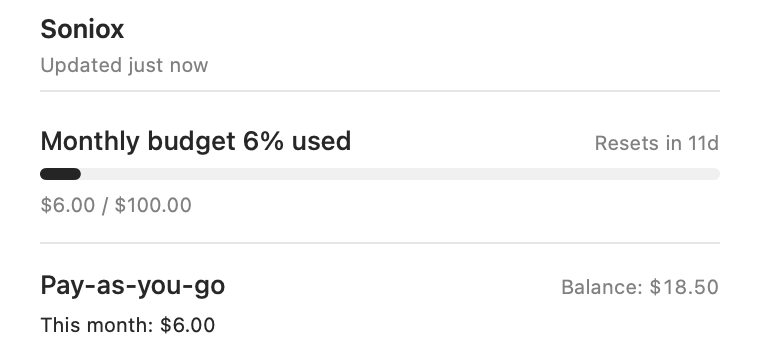
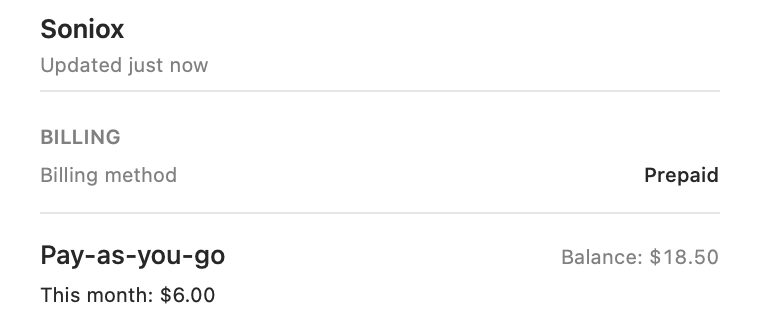
Default Soniox menus to balance and spend

diff --git a/Tests/CodexBarTests/SonioxProviderTests.swift b/Tests/CodexBarTests/SonioxProviderTests.swift
@@ -27,15 +27,37 @@ struct SonioxProviderTests {
     }
 
     @Test
-    func `menu card separates the monthly budget from prepaid balance`() throws {
+    func `monthly budget visibility is opt in and survives config round trips`() throws {
+        let fixture = try ProviderSettingsDescriptorTests().makeSettingsFixture(suite: "SonioxVisibilityTests")
+        let settings = fixture.settings
+        #expect(!settings.isUsageItemVisible(.metric("primary"), for: .soniox))
+        #expect(!settings.hasCustomUsageItemVisibility(for: .soniox))
+        settings.setUsageItemVisible(true, itemID: .metric("primary"), for: .soniox)
+        #expect(settings.isUsageItemVisible(.metric("primary"), for: .soniox))
+        #expect(settings.hasCustomUsageItemVisibility(for: .soniox))
+        let saved = try CodexBarConfig.decode(from: settings.configSnapshot.encodedData())
+        #expect(saved.providerConfig(for: .soniox)?.hiddenUsageItemIDs == [])
+        settings.restoreDefaultUsageItemVisibility(for: .soniox)
+        #expect(!settings.isUsageItemVisible(.metric("primary"), for: .soniox))
+        #expect(!settings.hasCustomUsageItemVisibility(for: .soniox))
+        settings.applyExternalConfig(saved, reason: "synthetic-reload", affectsBackgroundWork: false)
+        #expect(settings.isUsageItemVisible(.metric("primary"), for: .soniox))
+        #expect(settings.hiddenUsageItemIDs(for: .deepgram).isEmpty)
+    }
+
+    @Test
+    func `menu card defaults to prepaid balance and spend with optional monthly budget`() throws {
+        let fixture = try ProviderSettingsDescriptorTests().makeSettingsFixture(suite: "SonioxMenuCardTests")
         let now = Date(timeIntervalSince1970: 1_792_540_800)
         let resetsAt = try #require(ISO8601DateFormatter().date(from: "2026-11-01T00:00:00Z"))
-        let snapshot = UsageSnapshot(
+        let snapshot = try UsageSnapshot(
             primary: RateWindow(
                 usedPercent: 6, windowMinutes: nil, resetsAt: resetsAt, resetDescription: "$6.00 / $100.00"),
             secondary: nil,
             providerCost: ProviderCostSnapshot(
                 used: 6, limit: 100, currencyCode: "USD", period: "This month", balance: 18.5, updatedAt: now),
+            details: [ProviderDetailSection(
+                title: "Billing", rows: [.init(label: "Billing method", value: "Prepaid")])],
             updatedAt: now)
         let model = try UsageMenuCardView.Model.make(.init(
             provider: .soniox,
@@ -62,11 +84,18 @@ struct SonioxProviderTests {
         #expect(model.providerCost?.spendLine == "This month: $6.00")
         #expect(model.providerCost?.balanceLine == "Balance: $18.50")
 
+        let visibleModel = model.applyingUsageItemVisibility(
+            hiddenItemIDs: fixture.settings.hiddenUsageItemIDs(for: .soniox))
+        #expect(visibleModel.metrics.isEmpty)
+        #expect(visibleModel.providerCost?.spendLine == "This month: $6.00")
+        #expect(visibleModel.providerCost?.balanceLine == "Balance: $18.50")
+        #expect(model.usageItemDescriptors.contains { $0.id == .metric("primary") && $0.title == "Monthly budget" })
+
         if let path = ProcessInfo.processInfo.environment["CODEXBAR_SONIOX_SCREENSHOT_DIR"] {
             let directory = URL(fileURLWithPath: path, isDirectory: true)
             try FileManager.default.createDirectory(at: directory, withIntermediateDirectories: true)
             for dark in [false, true] {
-                let view = UsageMenuCardView(model: model, width: 380)
+                let view = UsageMenuCardView(model: visibleModel, width: 380)
                     .environment(\.locale, Locale(identifier: "en_US_POSIX"))
                     .environment(\.colorScheme, dark ? .dark : .light)
                     .environment(\.displayScale, 2)

diff --git a/Sources/CodexBar/ProviderUsageItemVisibility.swift b/Sources/CodexBar/ProviderUsageItemVisibility.swift
@@ -237,7 +237,7 @@ extension SettingsStore {
             return Set(storedIDs.map(ProviderUsageItemID.init(rawValue:)))
         }
 
-        var hiddenIDs = Set<ProviderUsageItemID>()
+        var hiddenIDs = Self.defaultHiddenUsageItemIDs(for: provider)
         // Provider-specific by design: migrate the legacy Codex Spark and Claude Daily Routines visibility toggles.
         if provider == .codex, !self.codexSparkUsageVisible {
             hiddenIDs.insert(.metric("codex-spark"))
@@ -251,6 +251,15 @@ extension SettingsStore {
 
     func isUsageItemVisible(_ itemID: ProviderUsageItemID, for provider: UsageProvider) -> Bool {
         !self.hiddenUsageItemIDs(for: provider).contains(itemID)
+    }
+
+    func hasCustomUsageItemVisibility(for provider: UsageProvider) -> Bool {
+        self.hiddenUsageItemIDs(for: provider) != Self.defaultHiddenUsageItemIDs(for: provider)
+    }
+
+    private static func defaultHiddenUsageItemIDs(for provider: UsageProvider) -> Set<ProviderUsageItemID> {
+        Set(ProviderDescriptorRegistry.descriptor(for: provider).presentation.menuCard.defaultHiddenUsageItemIDs
+            .map(ProviderUsageItemID.init(rawValue:)))
     }
 
     func setUsageItemVisible(
@@ -271,12 +280,13 @@ extension SettingsStore {
     }
 
     func restoreDefaultUsageItemVisibility(for provider: UsageProvider) {
-        guard !self.hiddenUsageItemIDs(for: provider).isEmpty ||
+        guard self.hasCustomUsageItemVisibility(for: provider) ||
             self.providerConfig(for: provider)?.hiddenUsageItemIDs == nil
         else { return }
 
-        self.persistHiddenUsageItemIDs([], for: provider)
-        self.updateLegacyUsageVisibility(provider: provider, hiddenItemIDs: [])
+        let defaultIDs = Self.defaultHiddenUsageItemIDs(for: provider)
+        self.persistHiddenUsageItemIDs(defaultIDs, for: provider)
+        self.updateLegacyUsageVisibility(provider: provider, hiddenItemIDs: defaultIDs)
     }
 
     private func persistHiddenUsageItemIDs(

diff --git a/Sources/CodexBarCore/Providers/ProviderUsagePresentation.swift b/Sources/CodexBarCore/Providers/ProviderUsagePresentation.swift
@@ -289,6 +289,8 @@ public struct ProviderMenuCardPresentation: Sendable {
     public let creditsVisibility: ProviderCreditsVisibility
     public let showsCreditsSection: Bool
     public let providerCostIsRequiredUsage: Bool
+    /// Usage items hidden initially and when restoring provider defaults.
+    public let defaultHiddenUsageItemIDs: [String]
     public let usesProviderCostHistoryAsPrimaryDashboard: Bool
     public let supportsInlineTokenCostDashboard: Bool
     /// Codex and Claude local cost dashboards split spend by live Weekly quota windows.
@@ -320,6 +322,7 @@ public struct ProviderMenuCardPresentation: Sendable {
         showsCreditsSection: Bool = true,
         costVisibilityResolver: @escaping CostVisibilityResolver = { _ in true },
         providerCostIsRequiredUsage: Bool = false,
+        defaultHiddenUsageItemIDs: [String] = [],
         usesProviderCostHistoryAsPrimaryDashboard: Bool = false,
         primaryCostHistoryResolver: @escaping PrimaryCostHistoryResolver = { _, tokenSnapshot in tokenSnapshot },
         supportsInlineTokenCostDashboard: Bool = false,
@@ -345,6 +348,7 @@ public struct ProviderMenuCardPresentation: Sendable {
         self.showsCreditsSection = showsCreditsSection
         self.costVisibilityResolver = costVisibilityResolver
         self.providerCostIsRequiredUsage = providerCostIsRequiredUsage
+        self.defaultHiddenUsageItemIDs = defaultHiddenUsageItemIDs
         self.usesProviderCostHistoryAsPrimaryDashboard = usesProviderCostHistoryAsPrimaryDashboard
         self.primaryCostHistoryResolver = primaryCostHistoryResolver
         self.supportsInlineTokenCostDashboard = supportsInlineTokenCostDashboard

diff --git a/Sources/CodexBar/PreferencesProviderDetailView.swift b/Sources/CodexBar/PreferencesProviderDetailView.swift
@@ -313,7 +313,7 @@ struct ProviderUsageItemVisibilitySettingsView: View {
             Button(L("Restore Defaults")) {
                 self.settings.restoreDefaultUsageItemVisibility(for: self.provider)
             }
-            .disabled(self.settings.hiddenUsageItemIDs(for: self.provider).isEmpty)
+            .disabled(!self.settings.hasCustomUsageItemVisibility(for: self.provider))
         } header: {
             Text(L("Visible usage items"))
         } footer: {

diff --git a/Sources/CodexBarCore/Providers/Soniox/SonioxProviderDescriptor.swift b/Sources/CodexBarCore/Providers/Soniox/SonioxProviderDescriptor.swift
@@ -25,6 +25,7 @@ public enum SonioxProviderDescriptor {
             menuBarBalanceUsesPrepaidCost: true,
             menuCard: ProviderMenuCardPresentation(
                 providerCostIsRequiredUsage: true,
+                defaultHiddenUsageItemIDs: ["metric:primary"],
                 primaryDescriptionPlacement: .detail,
                 hidesPrimaryResetWithoutDate: true)),
         apiKeyField: .init(

diff --git a/docs/soniox.md b/docs/soniox.md
@@ -27,9 +27,14 @@ The provider uses bearer authentication for two read-only requests to `https://a
 - `GET /v1/organization/balance`: remaining prepaid USD balance and invoice billing state.
 - `GET /v1/organization/usage/monthly`: current calendar month's total USD usage and organization budget.
 
+The menu shows prepaid balance and monthly spend by default. Under **Settings → Providers → Soniox → Visible
+usage items**, enable **Monthly budget** to show the budget meter and reset. The **Billing** checkbox controls the
+billing-method details. Restore Defaults hides the budget meter again. These display choices do not change the API
+data or CLI output.
+
 Monthly usage includes API and Console playground requests across all projects. The budget meter resets at the
 start of the next UTC calendar month. The budget is a spending cap, separate from the prepaid balance. Invoice
-billing accounts show monthly spend and budget without presenting a zero prepaid balance as exhausted credits.
+billing accounts show monthly spend without presenting a zero prepaid balance as exhausted credits.
 A zero budget is shown as a dollar amount without inventing a usage percentage. Project breakdowns and daily
 cost history are not collected.
 

diff --git a/CHANGELOG.md b/CHANGELOG.md
@@ -4,7 +4,7 @@
 
 ### Added
 
-- Soniox: show monthly spend against the organization budget and prepaid balance using an organization API key.
+- Soniox: show prepaid balance and monthly spend using an organization API key, with an optional monthly budget meter.
 
 ## 0.79.0 — 2026-10-20
 
